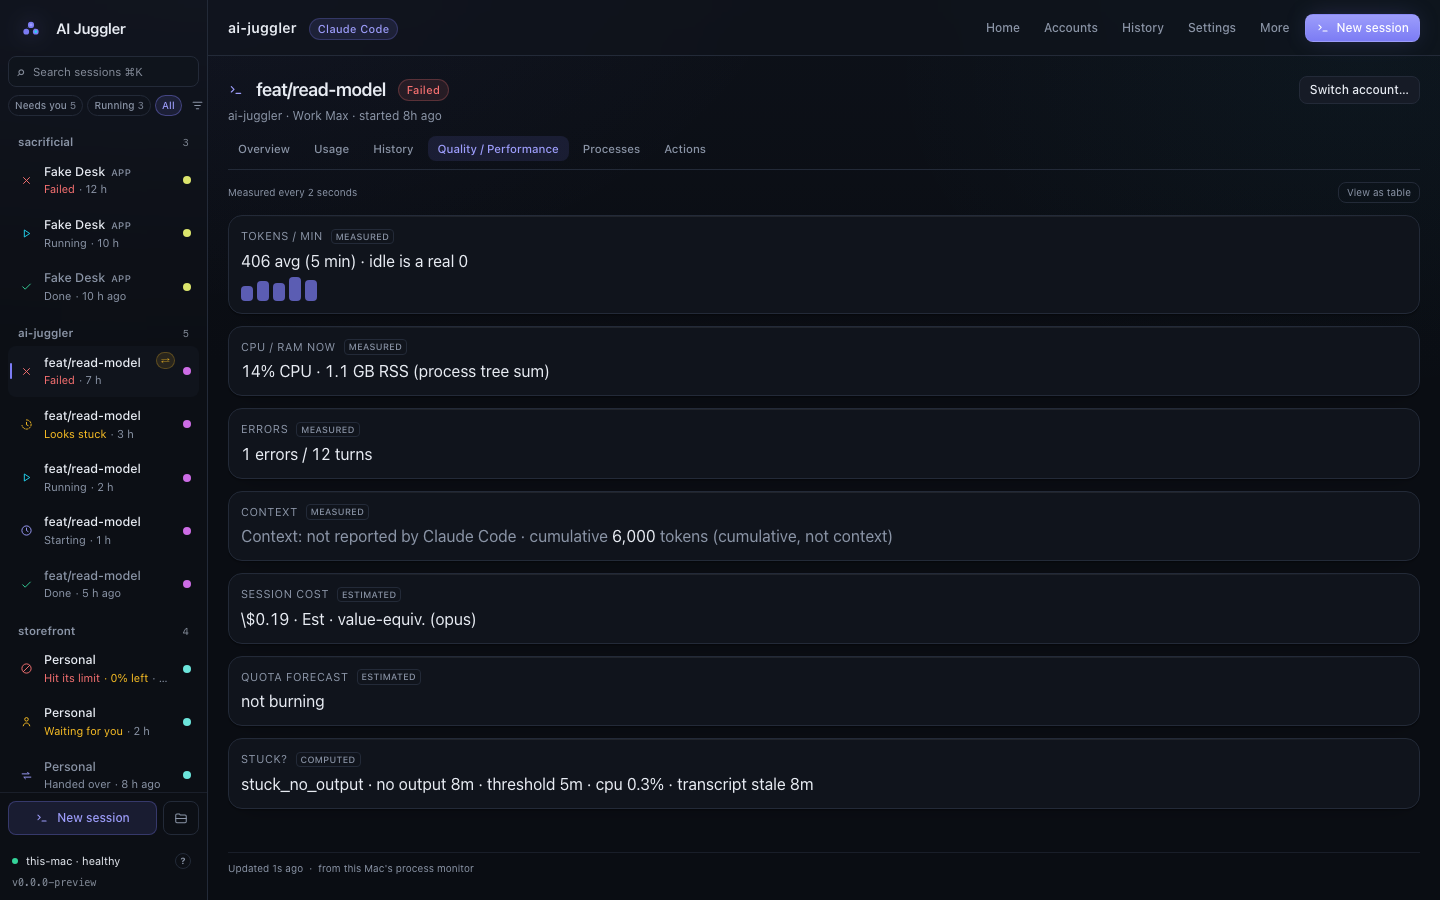
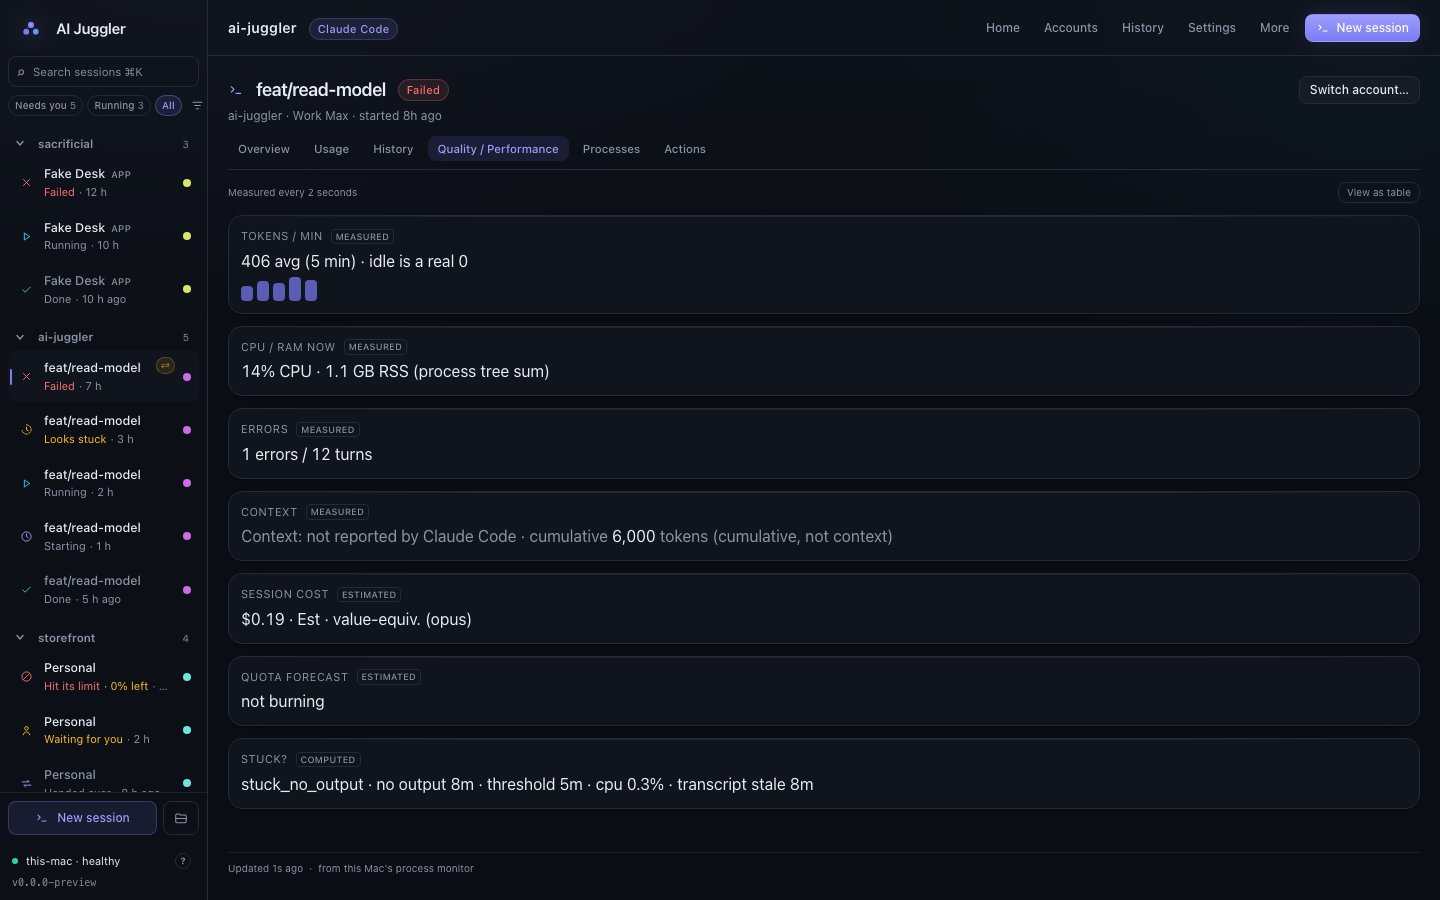
fix(inspector): session cost reads "$0.69", not "\$0.69"; no design note on Processes (#97)
* fix(inspector): session cost reads "$0.69", not "\$0.69"; no design note on Processes

0.0.11 walk by hand (docs/qa/evidence/walks/2026-10-21-0.0.11.md):

- F6: Quality / Performance › Session cost showed a literal backslash
  ("\$0.69"): JSX text needs no escape before "{".
- F7: Processes said "A good empty state: nothing this session spawned
  outlived it." Now: "Nothing this session started is still running
  after it."

* docs(gallery): Quality and Processes captures with the fixed words

---------

Changed region(s): [[0.0, 0.2489, 0.125, 0.9022], [0.1562, 0.6844, 0.3438, 0.7156], [0.0, 0.1556, 0.0938, 0.2178]]

diff --git a/ui/src/components/RightInspector.tsx b/ui/src/components/RightInspector.tsx
@@ -2522,7 +2522,7 @@ function QualityTab(props: PanelProps) {
       tier: "Estimated",
       body: quality.session_cost_usd !== null ? (
         <span className="tabular-nums text-ink">
-          \${quality.session_cost_usd.toFixed(2)} · Est · value-equiv. ({quality.priced_model})
+          ${quality.session_cost_usd.toFixed(2)} · Est · value-equiv. ({quality.priced_model})
         </span>
       ) : (
         <span className="text-muted">
@@ -2847,7 +2847,7 @@ function ProcessesTab(props: PanelProps & { readOnly?: boolean }) {
           </p>
           {orphans.length === 0 ? (
             <p className="text-[10px] text-faint">
-              A good empty state: nothing this session spawned outlived it.
+              Nothing this session started is still running after it.
             </p>
           ) : (
             <>

diff --git a/ui/src/components/processes-tab.test.tsx b/ui/src/components/processes-tab.test.tsx
@@ -243,6 +243,10 @@ describe("AJ-E410 Processes tab (§7.3 + orphan contract)", () => {
     await waitFor(() => expect(container.querySelector('[data-testid="processes-empty"]')).not.toBeNull());
     expect(container.querySelector('[data-testid="processes-empty"]')!.textContent).toBe("No subprocesses");
     expect(container.querySelector('[data-testid="orphans-heading"]')!.textContent).toBe("No orphaned processes");
+    // Plain words under it, not a design note (0.0.11 walk).
+    const orphans = container.querySelector('[data-testid="processes-orphans"]')!.textContent ?? "";
+    expect(orphans).toContain("Nothing this session started is still running after it.");
+    expect(orphans).not.toContain("empty state");
   });
 
   it("adopted/desktop-kind sessions render resources unavailable — never zeroed rows", async () => {

diff --git a/ui/src/components/quality-tab.test.tsx b/ui/src/components/quality-tab.test.tsx
@@ -138,6 +138,8 @@ describe("AJ-E409 Quality tab signals (D-07)", () => {
     );
     expect(container.querySelector('[data-testid="quality-context"]')!.textContent).toContain("cumulative, not context");
     expect(container.querySelector('[data-testid="quality-cost"]')!.textContent).toContain("Est · value-equiv.");
+    // A plain dollar sign, no backslash before it (0.0.11 walk).
+    expect(container.querySelector('[data-testid="quality-cost"]')!.textContent).toMatch(/Estimated\$\d+\.\d{2} · /);
     expect(container.querySelector('[data-testid="quality-cost"]')!.textContent).toContain("opus");
     expect(container.querySelector('[data-testid="quality-forecast"]')!.textContent).toContain("not burning");
     expect(container.querySelector('[data-testid="quality-stuck"]')!.textContent).toContain("Stuck?");
